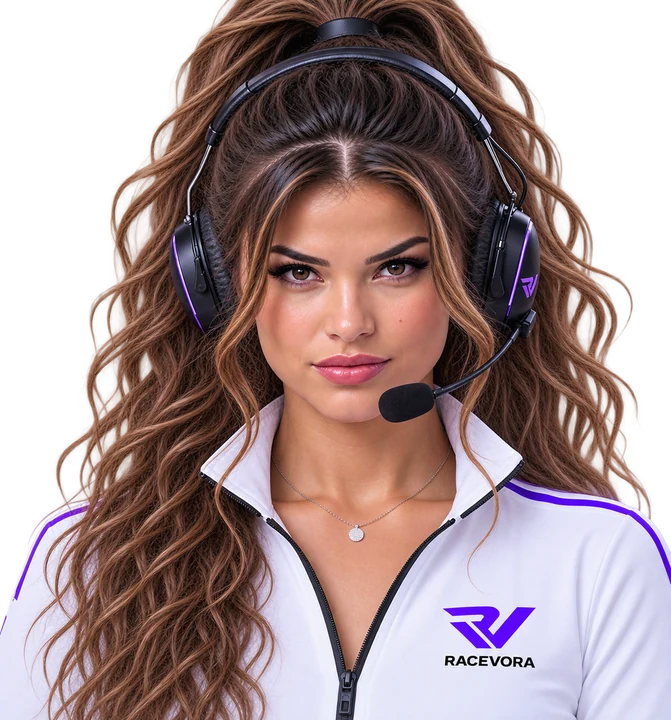
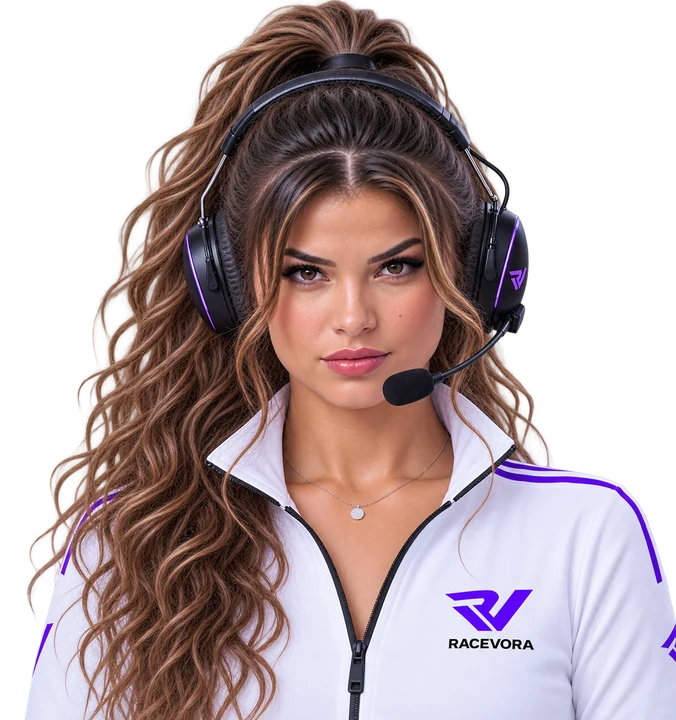
feat: animate and compact driver home

diff --git a/v2/src/styles.css b/v2/src/styles.css
@@ -3496,6 +3496,11 @@ p { color: var(--muted); }
   margin-top: 5px;
   font-size: 1.5rem;
 }
+.driver-home .career-number-grid .career-number {
+  min-height: 62px;
+  padding: 5px 8px;
+}
+.driver-home .career-number-grid .career-number strong { margin-top: 2px; }
 .achievement-latest {
   display: grid;
   gap: 0.25rem;
@@ -4134,8 +4139,15 @@ html[data-user-theme] body .f1-loader-lights span.is-green {
 .level-gauge-track { stroke: color-mix(in srgb, var(--brand-accent-2) 28%, var(--brand-surface)); stroke-width: 16; }
 .level-gauge-arc {
   stroke-width: 16;
+  stroke-dasharray: var(--level-gauge-progress, 0) 100;
   filter: drop-shadow(0 0 5px color-mix(in srgb, var(--brand-accent) 18%, transparent));
+  animation: level-gauge-arc-reveal 1.05s cubic-bezier(.22, 1, .36, 1) both;
   transition: stroke-dasharray 220ms var(--ease-out);
+}
+
+@keyframes level-gauge-arc-reveal {
+  from { stroke-dasharray: 0 100; }
+  to { stroke-dasharray: var(--level-gauge-progress, 0) 100; }
 }
 
 .level-gauge-tick { stroke: color-mix(in srgb, var(--brand-text) 30%, var(--brand-surface)); stroke-width: 1.5; stroke-linecap: round; }
@@ -4182,7 +4194,15 @@ html[data-user-theme] body .f1-loader-lights span.is-green {
   transform: rotate(var(--level-gauge-angle, -180deg));
   transform-box: view-box;
   transform-origin: 300px 294px;
+  animation: level-gauge-needle-sweep 1.15s cubic-bezier(.22, 1, .36, 1) both;
   transition: transform 220ms var(--ease-out);
+}
+
+@keyframes level-gauge-needle-sweep {
+  0% { transform: rotate(-180deg); }
+  72% { transform: rotate(calc(var(--level-gauge-angle, -180deg) + 4deg)); }
+  88% { transform: rotate(calc(var(--level-gauge-angle, -180deg) - 2deg)); }
+  100% { transform: rotate(var(--level-gauge-angle, -180deg)); }
 }
 
 .level-gauge-hub-ring { fill: color-mix(in srgb, var(--brand-accent-2) 28%, var(--brand-surface)); stroke: var(--brand-accent); stroke-width: 4; }
@@ -4256,7 +4276,7 @@ html[data-user-theme] body .f1-loader-lights span.is-green {
 
 @media (prefers-reduced-motion: reduce) {
   .level-gauge-arc,
-  .level-gauge-needle { transition: none; }
+  .level-gauge-needle { animation: none; transition: none; }
 }
 .challenge-countdown {
   display: flex;

diff --git a/v2/src/i18n/messages.ts b/v2/src/i18n/messages.ts
@@ -339,7 +339,7 @@ const de = {
   "home.retry": "Erneut laden",
   "home.defaultDriver": "Fahrer",
   "home.racingNow": "Für dich im Racing",
-  "home.greeting": "Willkommen zurück, {name}.",
+  "home.greeting": "Willkommen, {name}.",
   "home.context": "Deine Career im aktuellen Liga-Kontext {league}.",
   "home.hero.resultKicker": "Neues Ergebnis",
   "home.hero.resultTitle": "Dein letzter Renntag ist jetzt Teil deiner Career.",
@@ -985,7 +985,7 @@ export const messages: Record<Language, Record<MessageKey, string>> = {
   "home.retry": "Load again",
   "home.defaultDriver": "Driver",
   "home.racingNow": "Relevant to your racing",
-  "home.greeting": "Welcome back, {name}.",
+  "home.greeting": "Welcome, {name}.",
   "home.context": "Your Career in the current {league} league context.",
   "home.hero.resultKicker": "New result",
   "home.hero.resultTitle": "Your latest race day is now part of your Career.",
@@ -1627,7 +1627,7 @@ export const messages: Record<Language, Record<MessageKey, string>> = {
   "home.retry": "Cargar de nuevo",
   "home.defaultDriver": "Piloto",
   "home.racingNow": "Relevante para tus carreras",
-  "home.greeting": "Bienvenido de nuevo, {name}.",
+  "home.greeting": "Bienvenido, {name}.",
   "home.context": "Tu trayectoria en el contexto actual de la liga {league}.",
   "home.hero.resultKicker": "Nuevo resultado",
   "home.hero.resultTitle": "Tu última carrera ya forma parte de tu trayectoria.",
@@ -2269,7 +2269,7 @@ export const messages: Record<Language, Record<MessageKey, string>> = {
   "home.retry": "Charger à nouveau",
   "home.defaultDriver": "Pilote",
   "home.racingNow": "Pertinent pour vos courses",
-  "home.greeting": "Bon retour, {name}.",
+  "home.greeting": "Bienvenue, {name}.",
   "home.context": "Votre carrière dans le contexte actuel de la ligue {league}.",
   "home.hero.resultKicker": "Nouveau résultat",
   "home.hero.resultTitle": "Votre dernière course fait maintenant partie de votre carrière.",

diff --git a/v2/src/driver/LevelGauge.tsx b/v2/src/driver/LevelGauge.tsx
@@ -40,6 +40,9 @@ export function LevelGauge({
   const needleStyle = {
     '--level-gauge-angle': `${-180 + safeProgress * 1.8}deg`,
   } as CSSProperties;
+  const arcStyle = {
+    '--level-gauge-progress': safeProgress,
+  } as CSSProperties;
 
   const ticks = Array.from({ length: 41 }, (_, index) => {
     const angle = 180 + index * 4.5;
@@ -111,7 +114,7 @@ export function LevelGauge({
             d="M 60 294 A 240 240 0 0 1 540 294"
             pathLength="100"
             stroke={`url(#${arcGradientId})`}
-            strokeDasharray={`${safeProgress} 100`}
+            style={arcStyle}
           />
           <g>{ticks}</g>
           <g>{scaleLabels}</g>

diff --git a/v2/src/driver/DriverHomePage.tsx b/v2/src/driver/DriverHomePage.tsx
@@ -140,7 +140,6 @@ export function DriverHomePage() {
             <p className="hero-kicker">{hero.kicker}</p>
           </div>
           <h1 id="driver-hero-title">{t('home.greeting', { name: displayName })}</h1>
-          <p className="hero-subcopy">{hero.title} {hero.copy}</p>
           <div className="next-race-showcase">
             <span className="section-label">{seasonCompleted ? t('home.seasonStatus') : t('home.nextRace')}</span>
             <strong>{seasonCompleted ? t('home.noActiveSeason') : snapshot.nextRace?.grand_prix_name ?? t('home.noRaceScheduled')}</strong>
